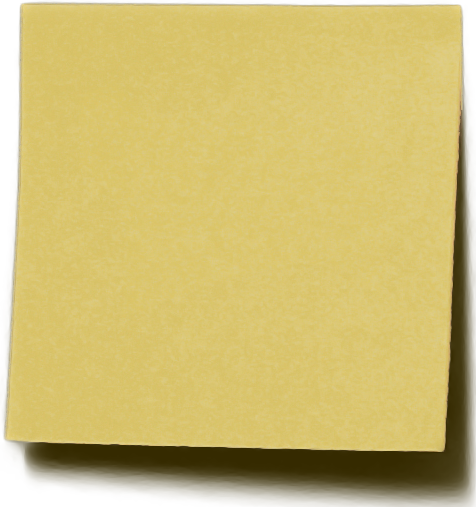
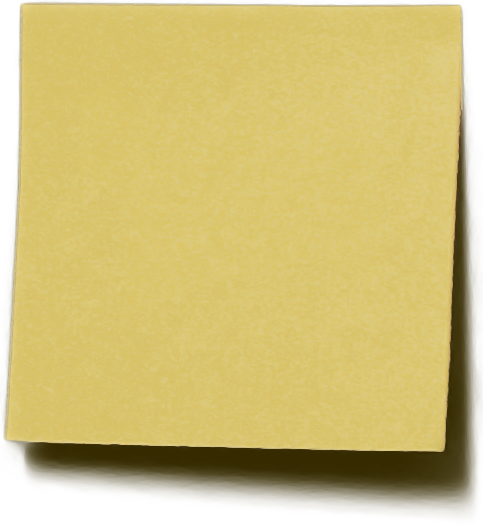
Enhanced post-it functionality

Changed region(s): [[0.0, 0.0, 1.0, 1.0]]

diff --git a/app/assets/stylesheets/application.css.scss b/app/assets/stylesheets/application.css.scss
@@ -825,17 +825,22 @@ width: 300px;
 }
 p.helpful_information {
     font-family: Comic Sans MS;
-    padding-left: 50px;
-    padding-right: 20px;
+    padding-left: 35px;
+    padding-right: 30px;
     border-radius:16px;
     margin: 0px;
-    padding-top:50px;
 }
 div.helpful_background {
+  margin-top: 20px;
   background-image: image_url("post-it.png");
-  background-size:328px 352px;
+  background-size:298px 324px;
   background-repeat:no-repeat;
   min-width: 298px;
-  min-height: 322px;
+  min-height: 324px;
+  img {
+    margin-top: 10px;
+    margin-left: 20px;
+    &:hover {cursor:pointer;}
+  }
 }
 

diff --git a/app/helpers/application_helper.rb b/app/helpers/application_helper.rb
@@ -118,8 +118,10 @@ module ApplicationHelper
   end
 
   def helpful_information(help_text)
+    text_id_arr = help_text.split("_")
+    displayed_text = text_id_arr[0]
     if controller_name == "families"
-      content_tag("div", content_tag("p", help_text, :class => "helpful_information"), :class => "helpful_background")
+      content_tag("div", image_tag("remove_icon.png", :class => "remove_help", :id => "remove_help_" + text_id_arr[1], :title => "Click here to hide this message in future.") << content_tag("p", displayed_text, :class => "helpful_information"), :class => "helpful_background")
     end
   end
 

diff --git a/app/controllers/families_controller.rb b/app/controllers/families_controller.rb
@@ -60,7 +60,7 @@ class FamiliesController < InheritedResources::Base
     end
 private
   def help_text
-    I18n.t('families.menu.info')
+    I18n.t('families.menu.info') + "_001"
   end
 
   def left_menu
